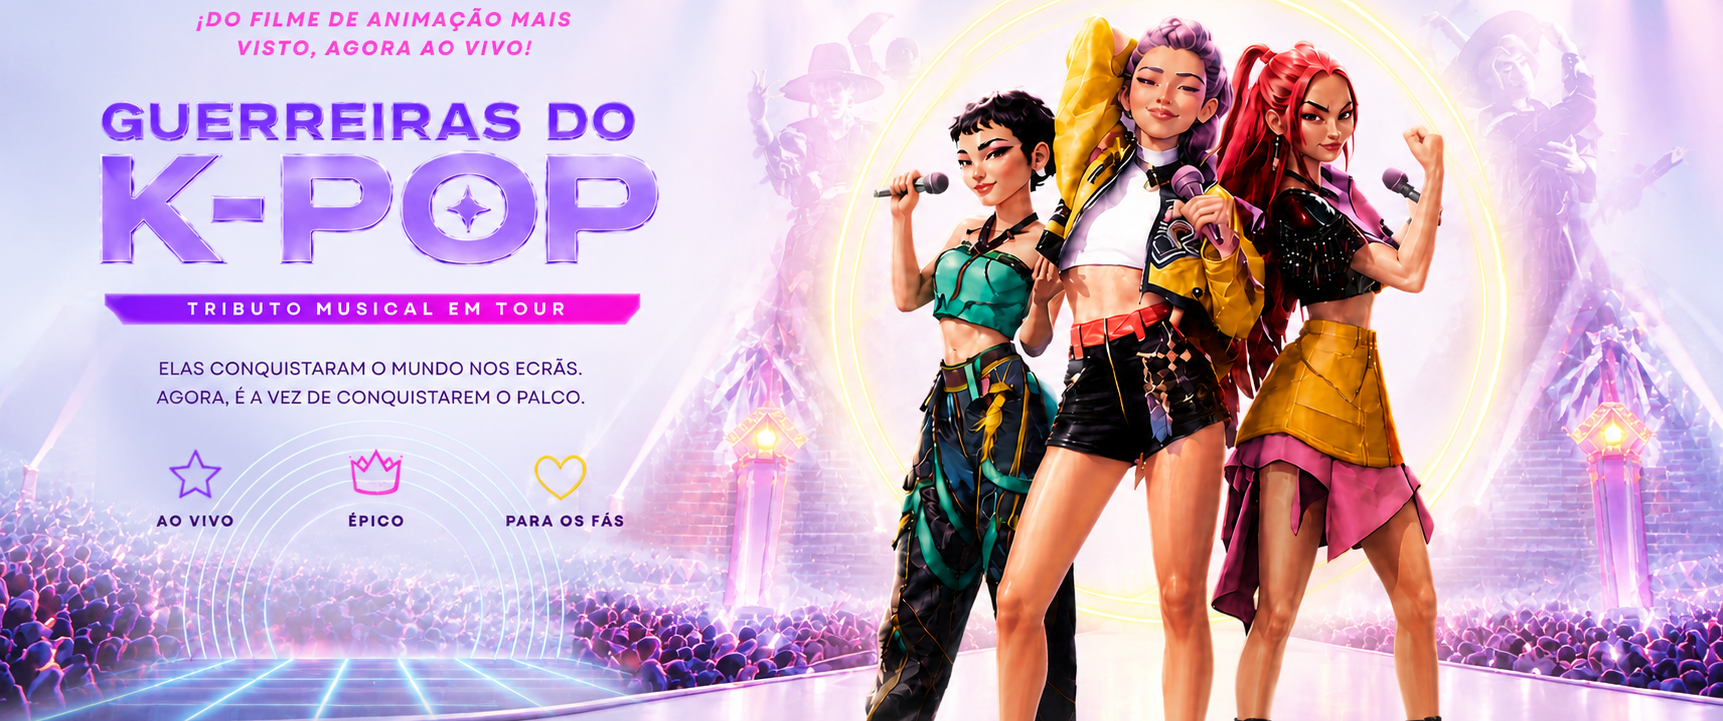
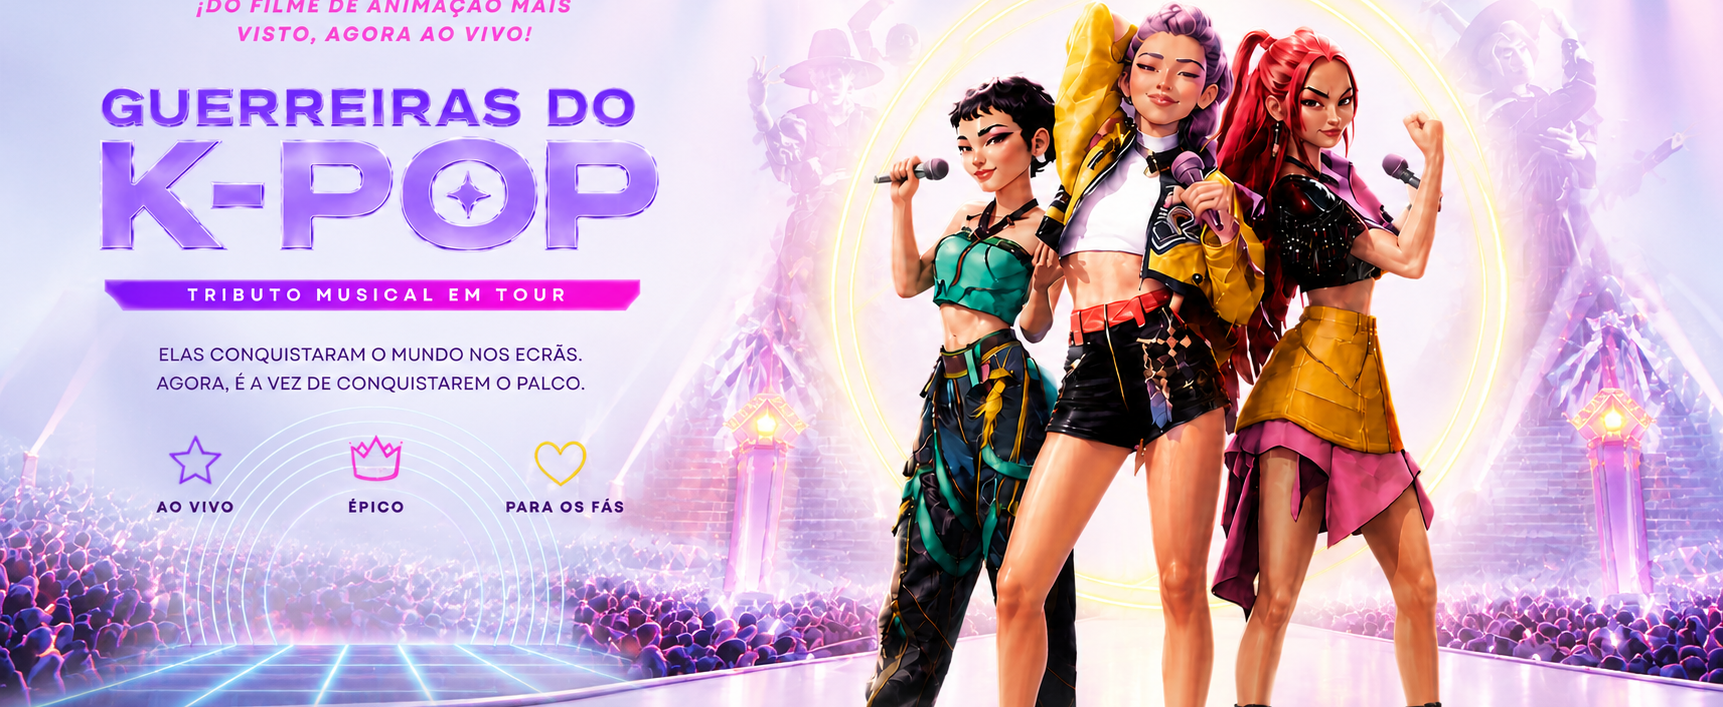
Hero: recortar topo da imagem clara para alinhar verticalmente com a escura
ANÁLISE VLM da imagem de comparação confirmou o desalinhamento vertical:
- NOITE: topo cabeça 22% Y, olhos 25% Y, pés 85% Y
- DIA:   topo cabeça 20% Y, olhos 23% Y, pés 83% Y
- Diferença: -2% Y (DIA está 2% mais alta que NOITE)

CORTE APLICADO na imagem clara:
- Cortados 14px do topo (721px * 0.02 = 14.42px ~ 14px)
- Dimensões: 1723x721 -> 1723x707
- Aspect ratio mudou de 2.390 para 2.437 (pequena diferença, aceitável)
- Backup em public/hero-bg-light-precrop-vertical.png

CSS SIMPLIFICADO:
- Removido transform: scale(1.083) que estava a compensar diferença de tamanho
  (agora as personagens estão alinhadas na própria imagem, não precisa de scale)
- Removido transform-origin: center 40% do mobile (já não há transform)
- animation: none em ambos os modos (zoom continua desativado)
- object-position: center center igual para ambos (alinhamento perfeito)

Resultado: as 3 personagens aparecem agora na mesma posição vertical em ambos os modos.

diff --git a/src/app/globals.css b/src/app/globals.css
@@ -1332,30 +1332,24 @@ html { scroll-behavior: smooth; }
   width: 100%;
   height: 100%;
   object-fit: cover;
-  /* Sem zoom por agora — apenas a imagem estática cobrindo o ecrã.
+  /* Sem zoom — apenas a imagem estática cobrindo o ecrã.
      object-position equal para ambos os modos para alinhar visualmente. */
   object-position: center center;
-  /* Sem animação de zoom */
+  /* Sem animação de zoom (a pedido do user para não atrapalhar o alinhamento) */
   animation: none;
 }
-/* LIGHT mode: a imagem clara original tem personagens ~8.3% mais pequenos que a escura
-   (VLM confirmou: NOITE=65% altura, DIA=60% altura). Compensamos com scale estático 1.083
-   para as personagens ficarem com o mesmo tamanho aparente em ambos os modos. */
+/* LIGHT mode: imagem foi recortada verticalmente (-14px do topo) para alinhar
+   com a escura. Sem scale compensatório — ambas ficam em scale 1.0. */
 .light-mode .hero-bg-img {
   animation: none;
-  transform: scale(1.083);
-  transform-origin: center center;
 }
 /* Em viewports portrait/tall (mobile), levanta o sujeito para a cara ficar visível. */
 @media (max-aspect-ratio: 16/10) {
   .hero-bg-img {
     object-position: center 40%;
   }
-  .light-mode .hero-bg-img {
-    transform-origin: center 40%;
-  }
 }
-/* Keyframes mantidos mas não usados (poderão ser reativados depois) */
+/* Keyframes mantidos mas não usados */
 @keyframes heroZoom {
   0% { transform: scale(1.0); }
   100% { transform: scale(1.05); }
